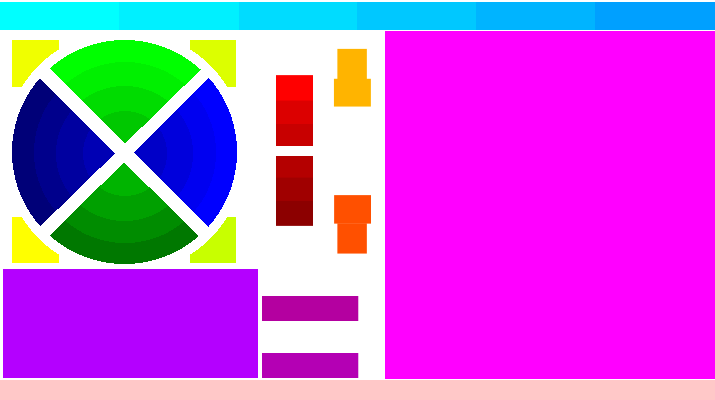
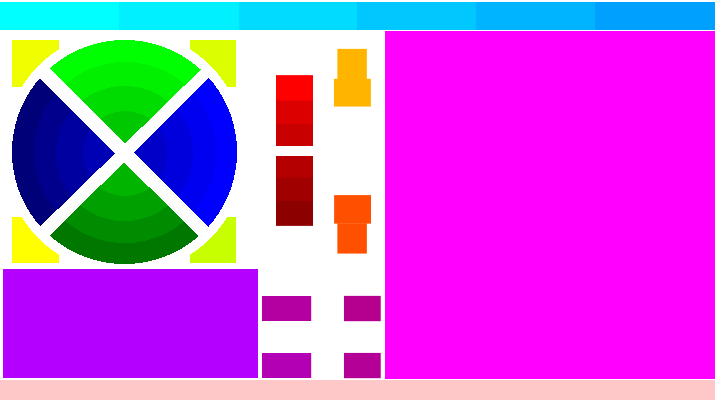
Changes to Pronterface UI for possible temp set button changes.

Changed region(s): [[0.4308, 0.87, 0.5538, 0.96], [0.4308, 0.72, 0.5538, 0.81]]

diff --git a/plugins/PronterfaceUI/script.py b/plugins/PronterfaceUI/script.py
@@ -42,7 +42,9 @@ addColorCommand(220, 255, 0, sendGCode, "G28 Y0")
 addColorCommand(200, 255, 0, sendGCode, "G28 Z0")
 
 addSpinner(180, 0, 160, sendGCode, "M104 S%d")
+#Hot end temp button RGB is (180, 0, 140)
 addSpinner(180, 0, 180, sendGCode, "M140 S%d")
+#Bed temp button is (180, 0, 150)
 
 addTerminal(255, 0, 255)
 addTemperatureGraph(180, 0, 255)
